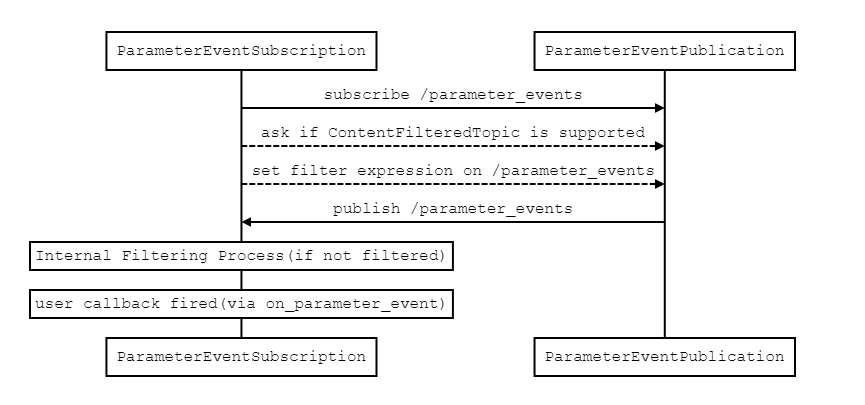
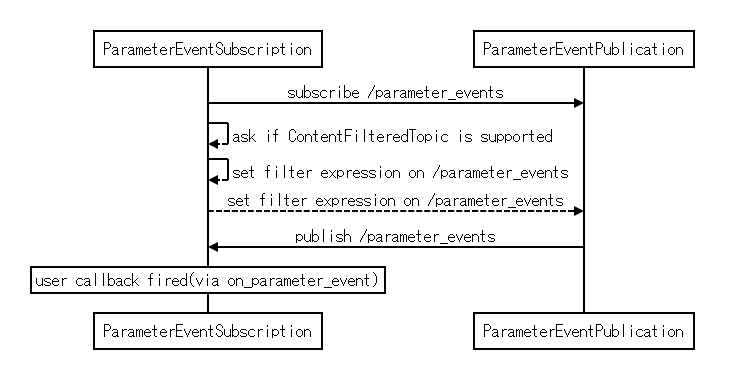
add images instead of sequence diagram.

Changed region(s): [[0.03, 0.0619, 0.9591, 0.9588]]

diff --git a/articles/content_filtering.md b/articles/content_filtering.md
@@ -206,19 +206,7 @@ Once new goal id is generated, that will be applied to ContentFilteredTopic obje
 In action use case, it does not need to change filtering expression at runtime.
 Instead of that it can use `MATCH` syntax with goal ids in expression parameters.
 
-<!--
 <img src="../img/content_filter/action_sequence_with_filter.png">
--->
-
-```sequence
-ActionServer->ActionClient: server ready
-ActionClient->ActionServer: subscribe feedback & status topic
-ActionClient-->ActionClient: ask if ContentFilteredTopic supported
-ActionClient-->ActionClient: set filter expression and parameter based on goal id
-ActionClient-->ActionServer: set filter expression and parameter based on goal id
-ActionServer->ActionClient: publish feedback & status
-Note over ActionClient: Filtering Process(if not filtered)
-```
 
 #### Parameter Events
 
@@ -253,18 +241,7 @@ e.g)
 - Filtering Expression and Parameters
   User can specify filtering expression and expression parameters.
 
-<!--
 <img src="../img/content_filter/parameter_event_sequence_with_filter.png">
--->
-
-```sequence
-ParameterEventSubscription->ParameterEventPublication: subscribe /parameter_events
-ParameterEventSubscription-->ParameterEventSubscription: ask if ContentFilteredTopic is supported
-ParameterEventSubscription-->ParameterEventSubscription: set filter expression on /parameter_events
-ParameterEventSubscription-->ParameterEventPublication: set filter expression on /parameter_events
-ParameterEventPublication->ParameterEventSubscription: publish /parameter_events
-Note over ParameterEventSubscription: user callback fired(via on_parameter_event)
-```
 
 ### Interfaces
 
